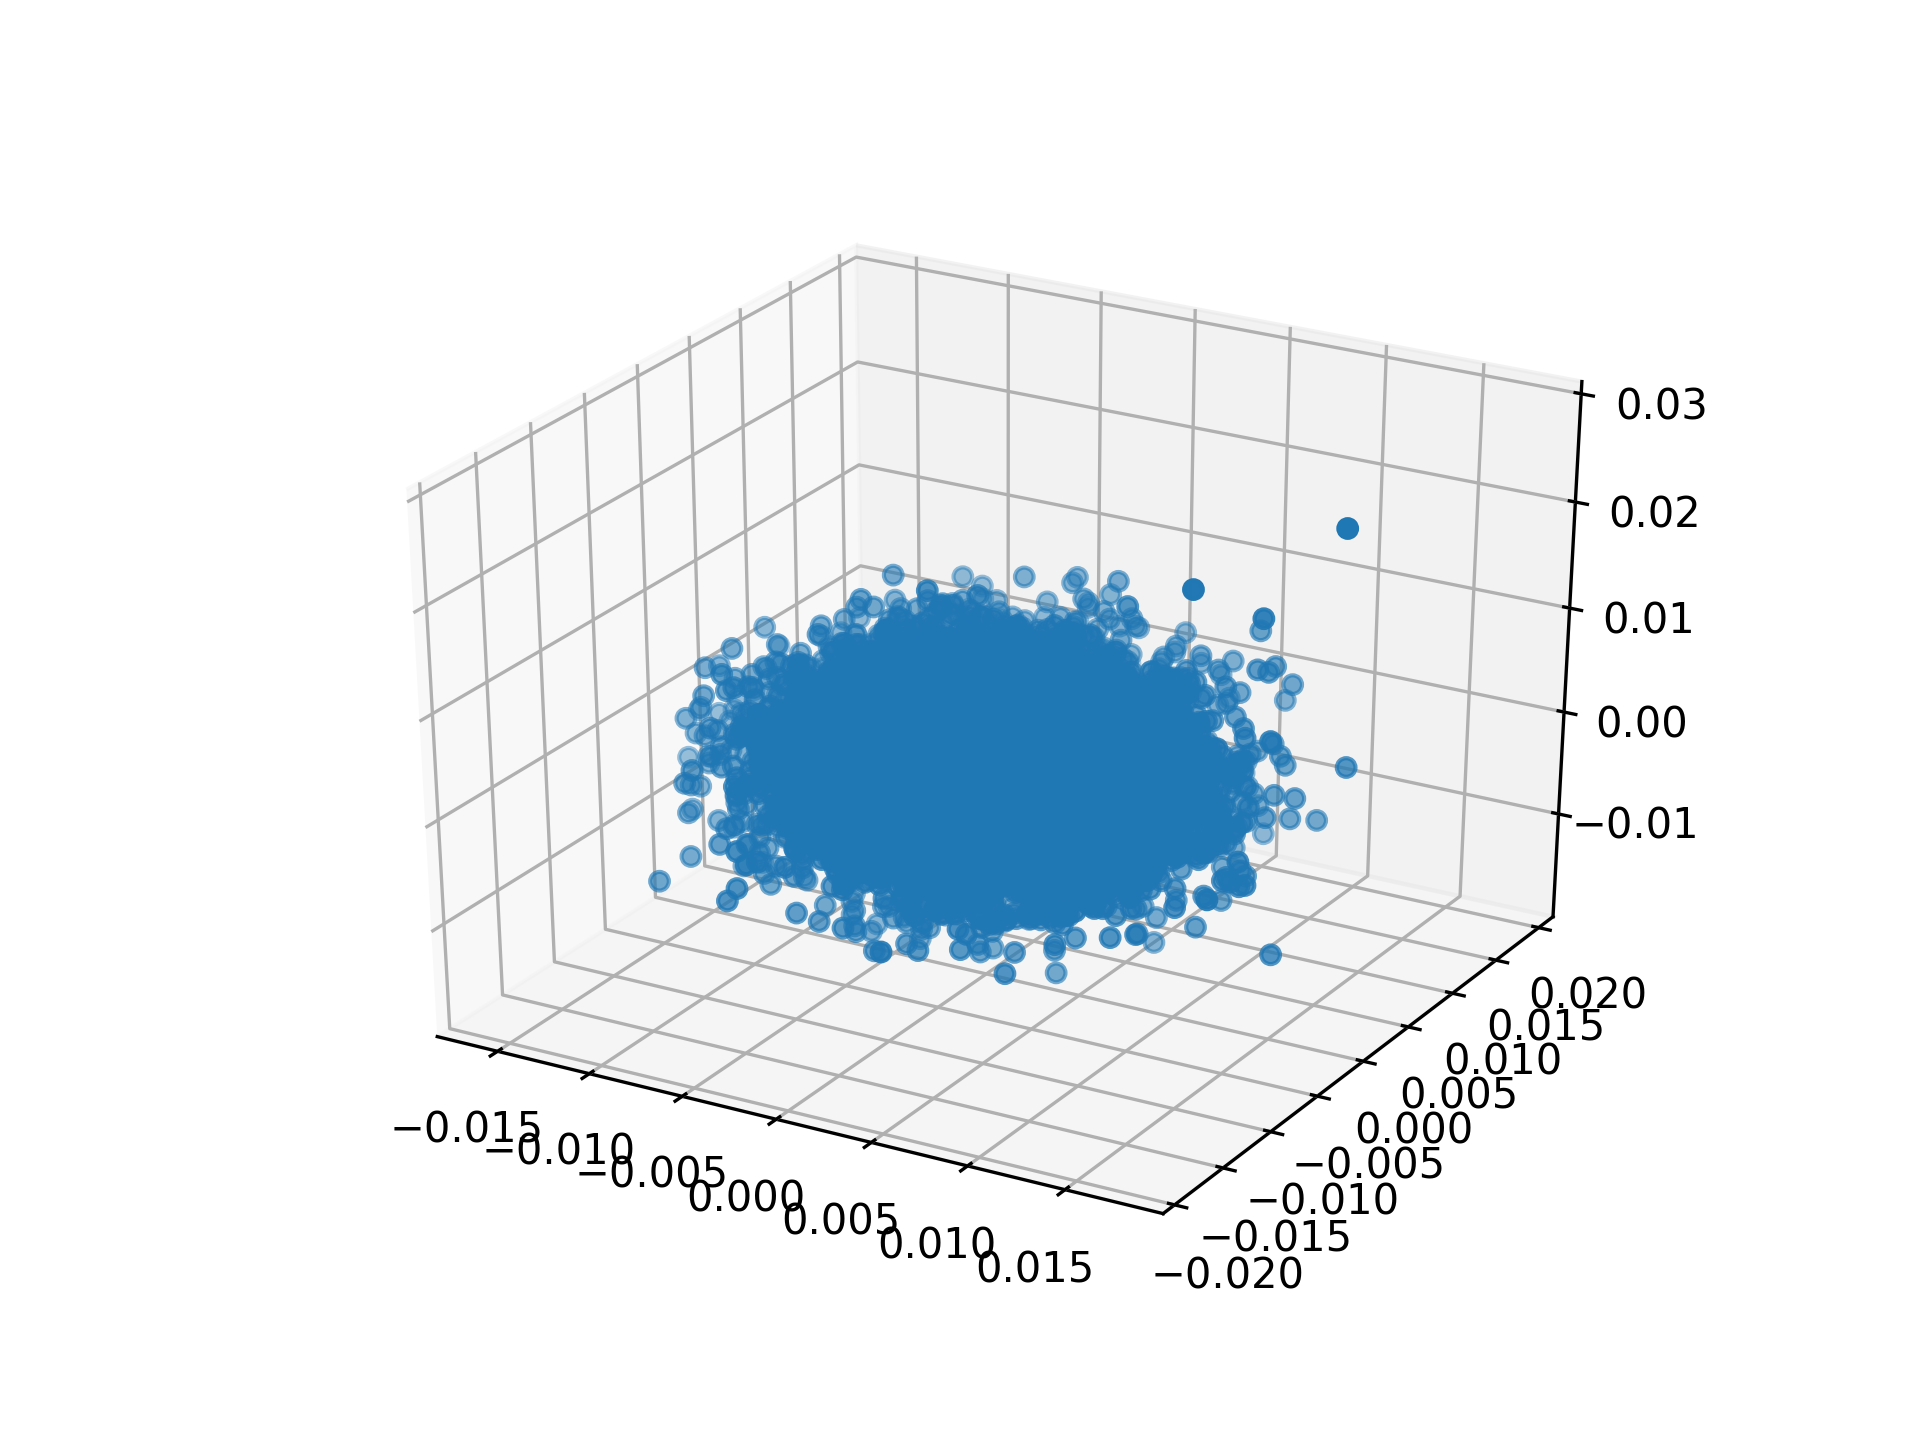
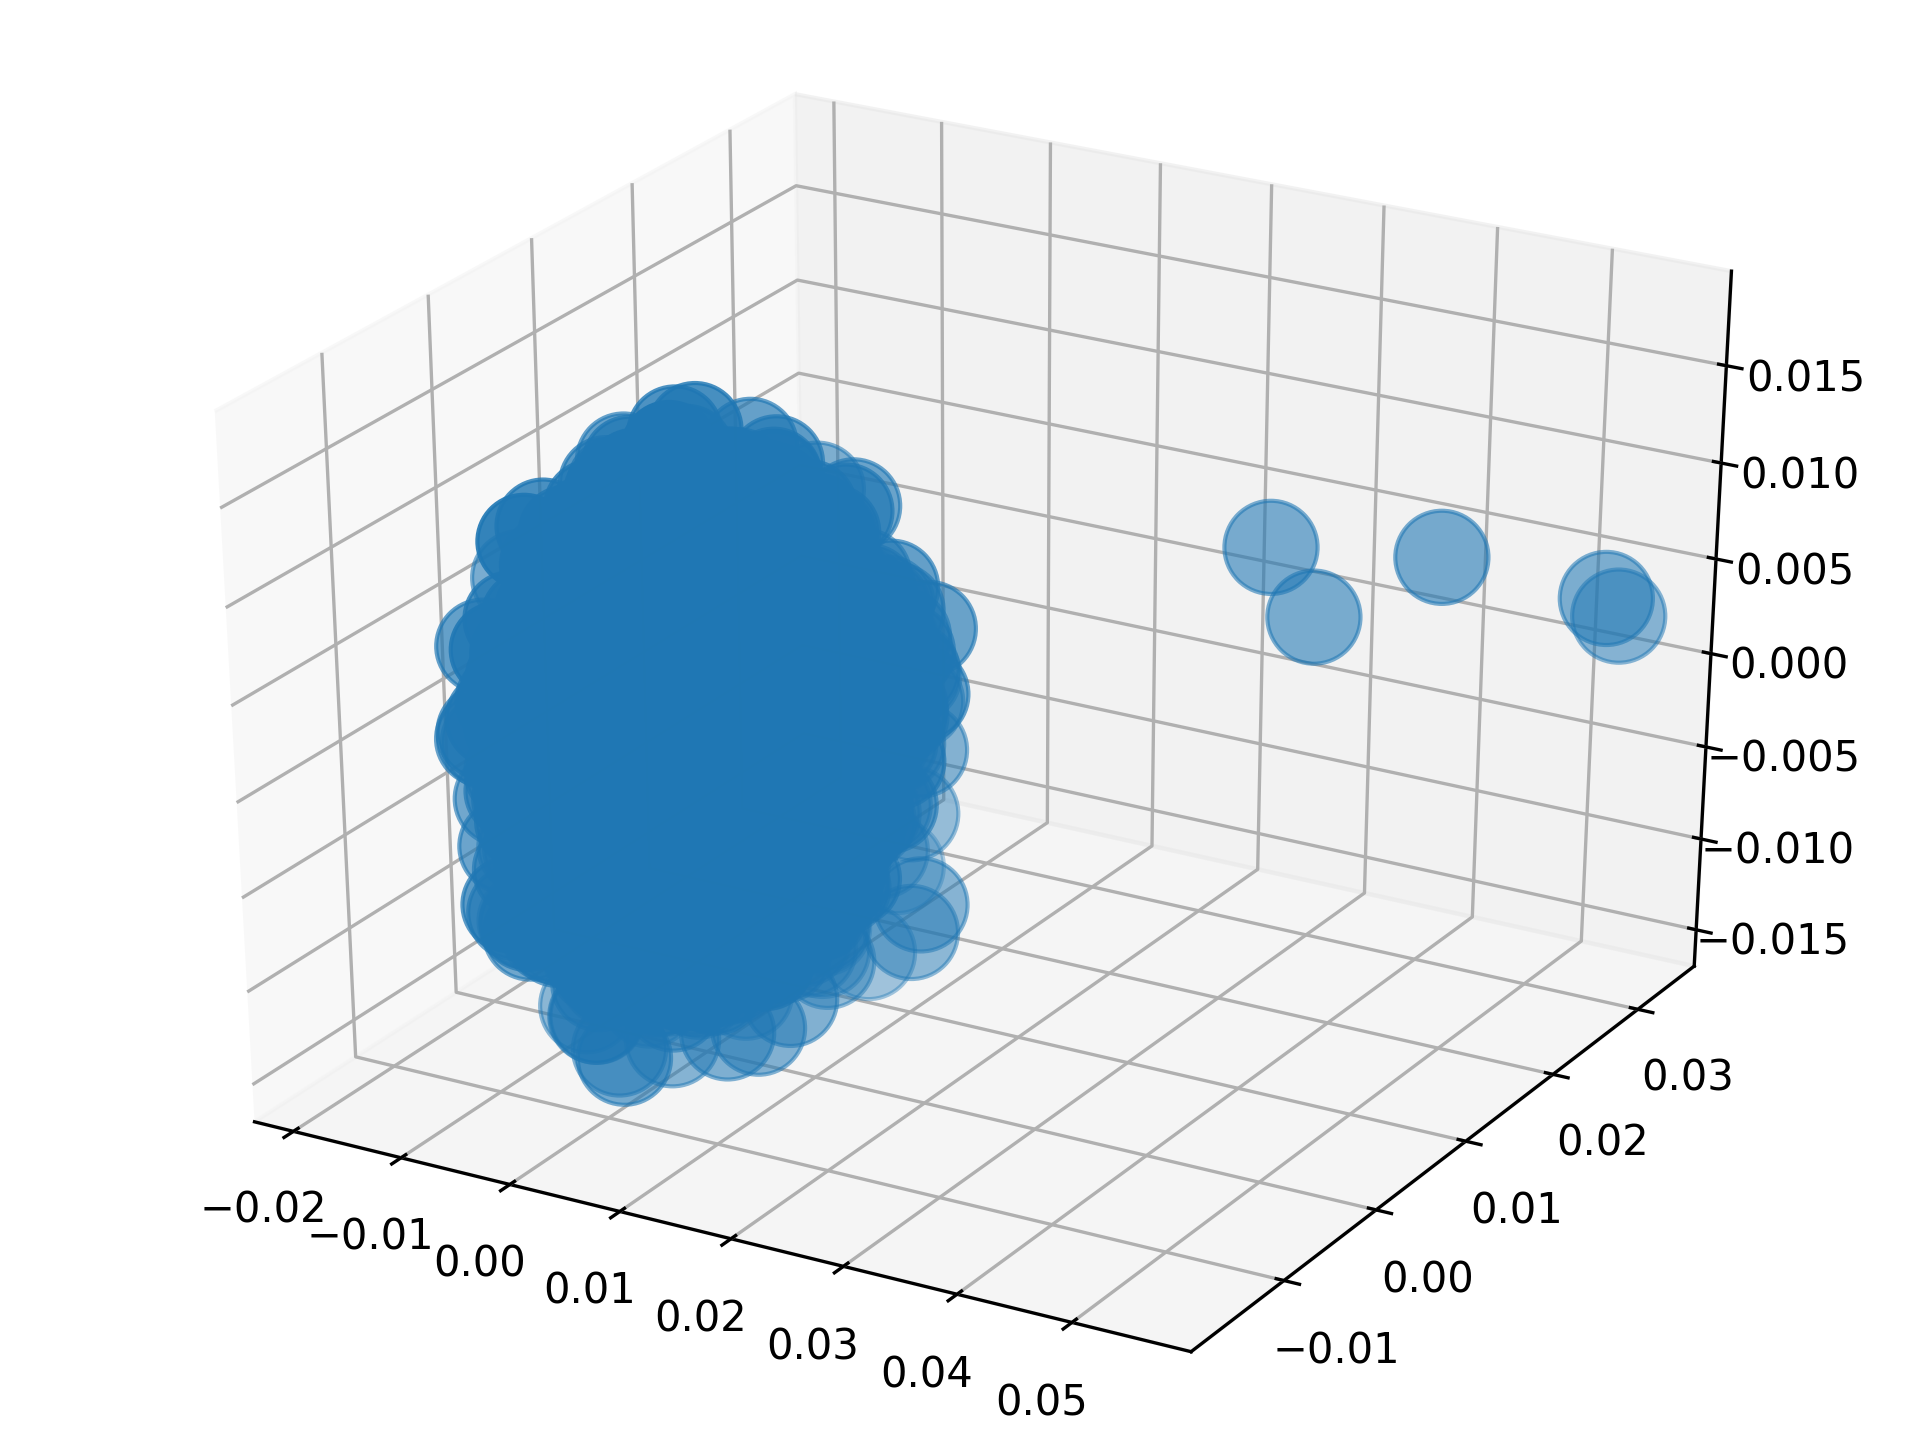
changed marker size

diff --git a/plot_embedding_3D.py b/plot_embedding_3D.py
@@ -45,6 +45,6 @@ for vector in reduced_path_vectors:
 fig = plt.figure()
 ax = Axes3D(fig)
 #ax = fig.add_subplot(111, projection='3d')
-ax.scatter(x, y, z)
+ax.scatter(x, y, z, s = 500)
 plt.savefig("embedding_3D", dpi=300)
 
